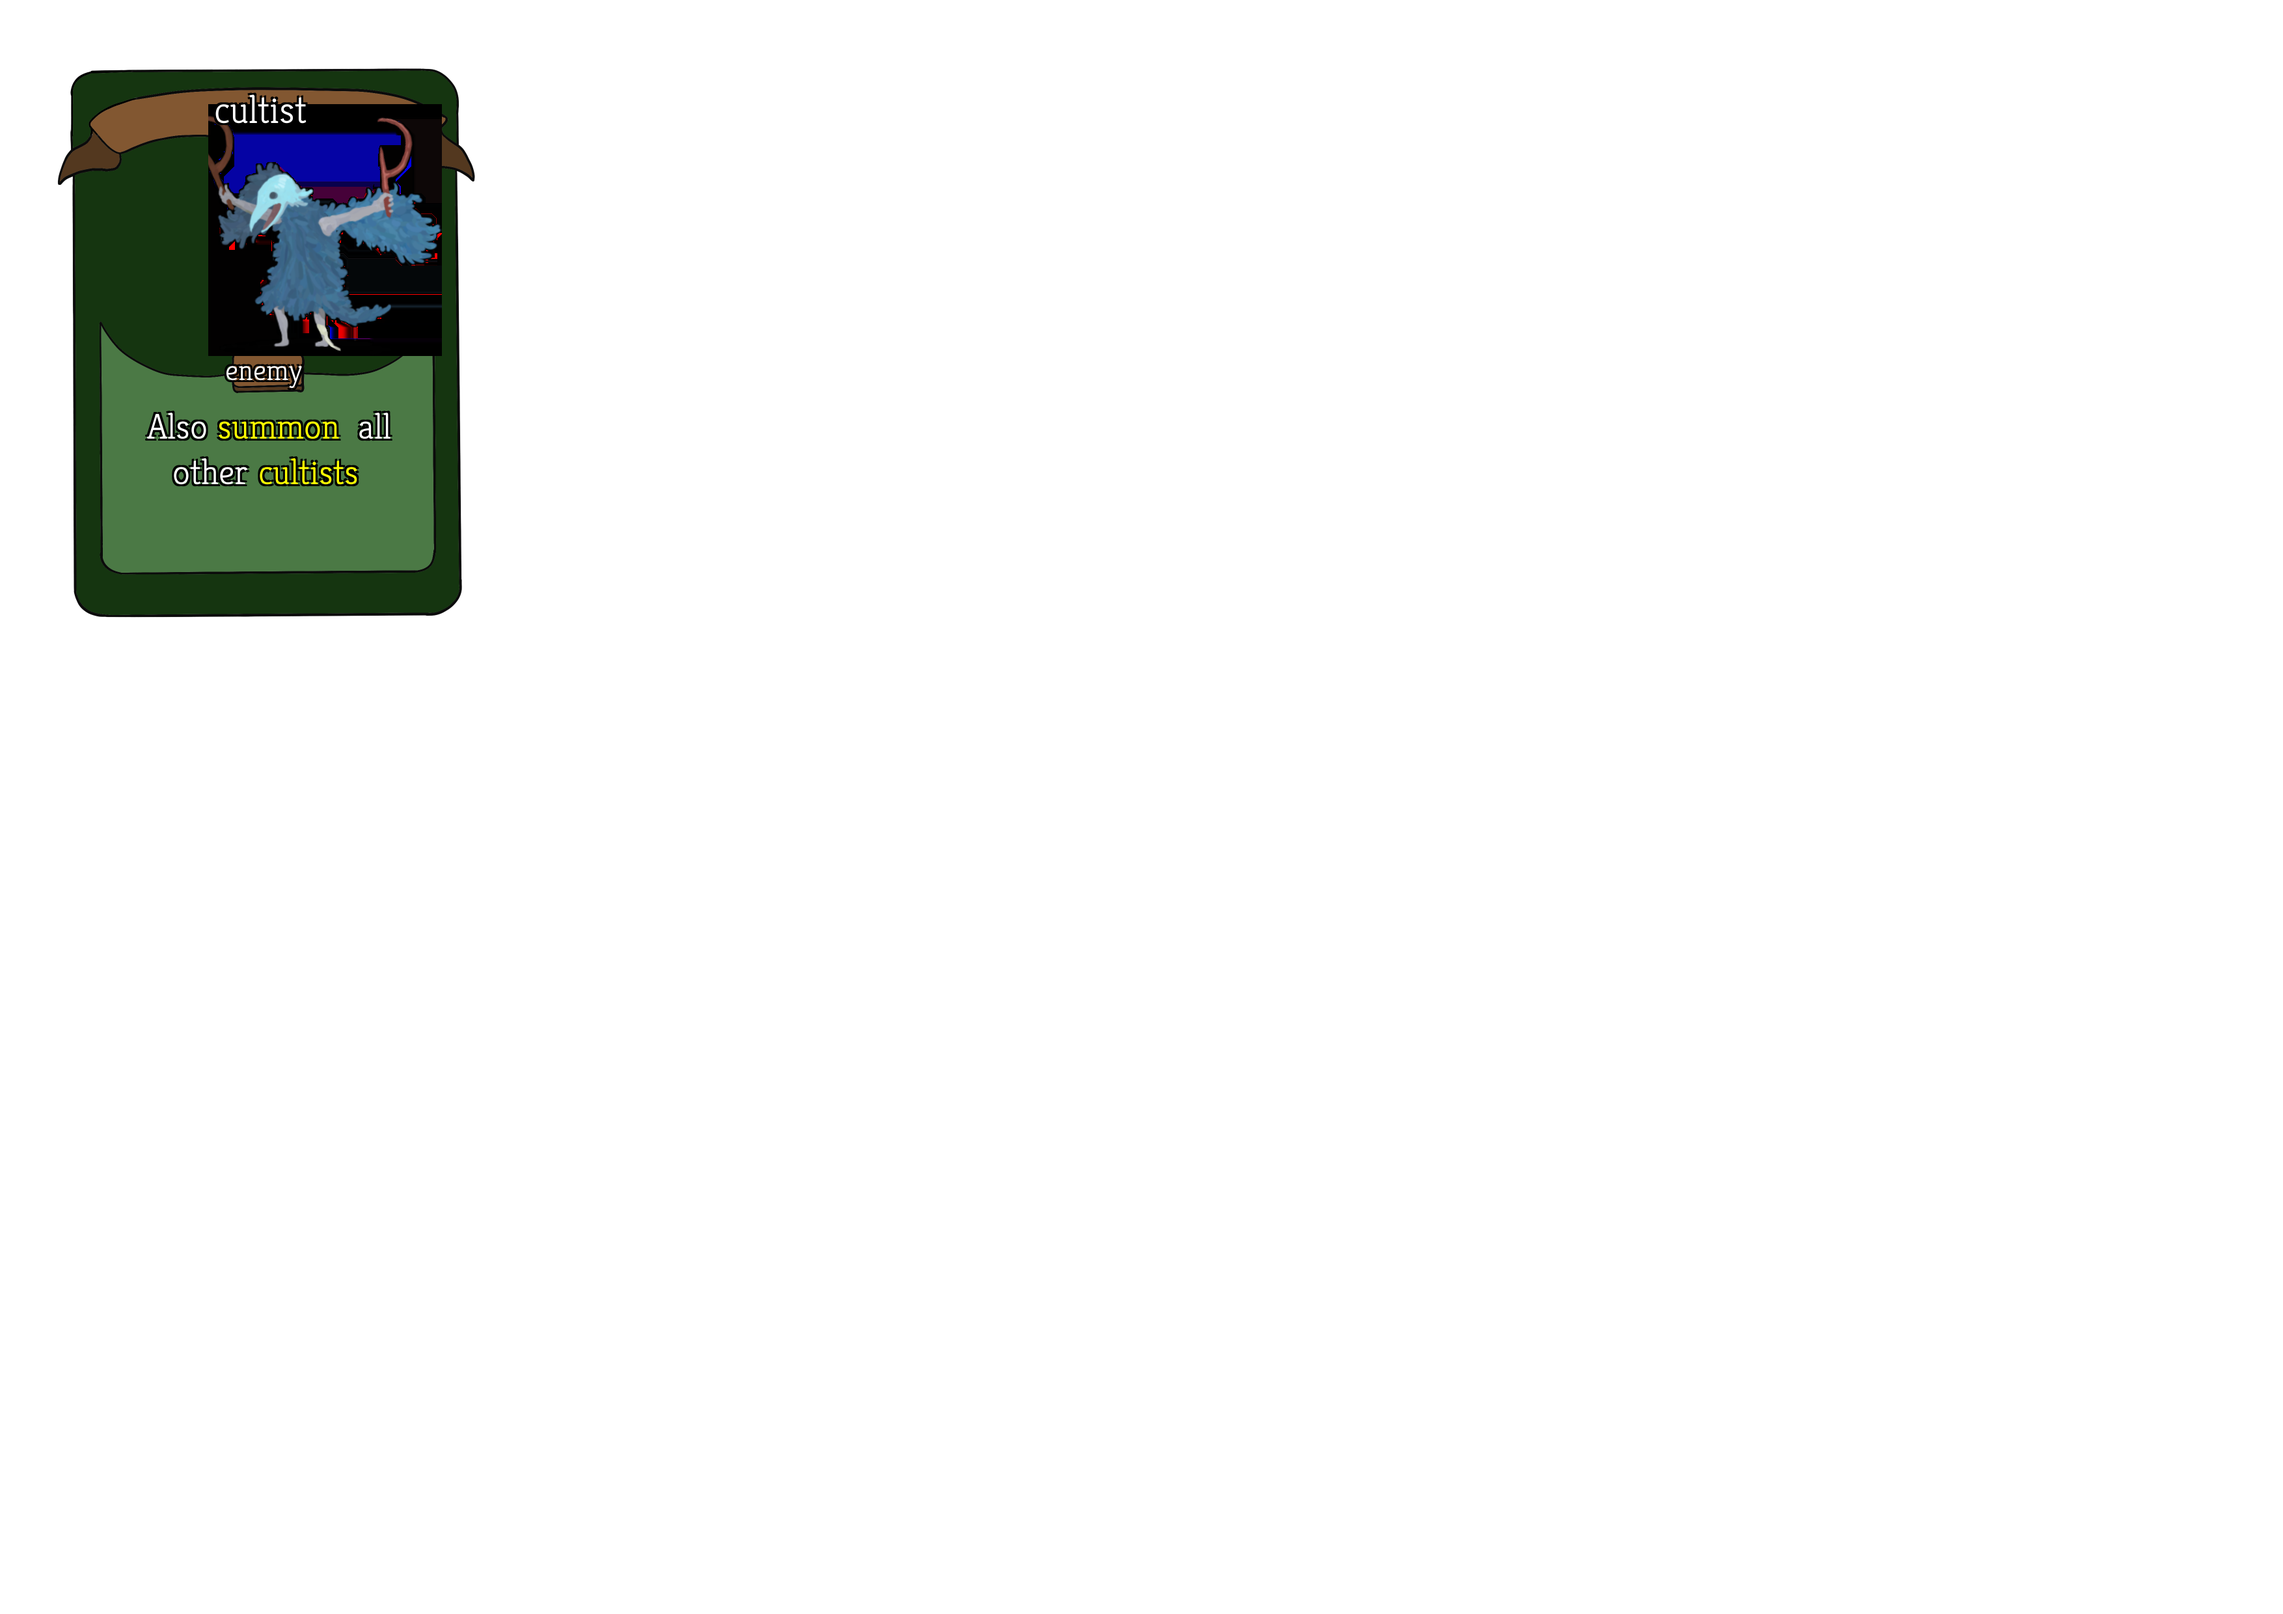
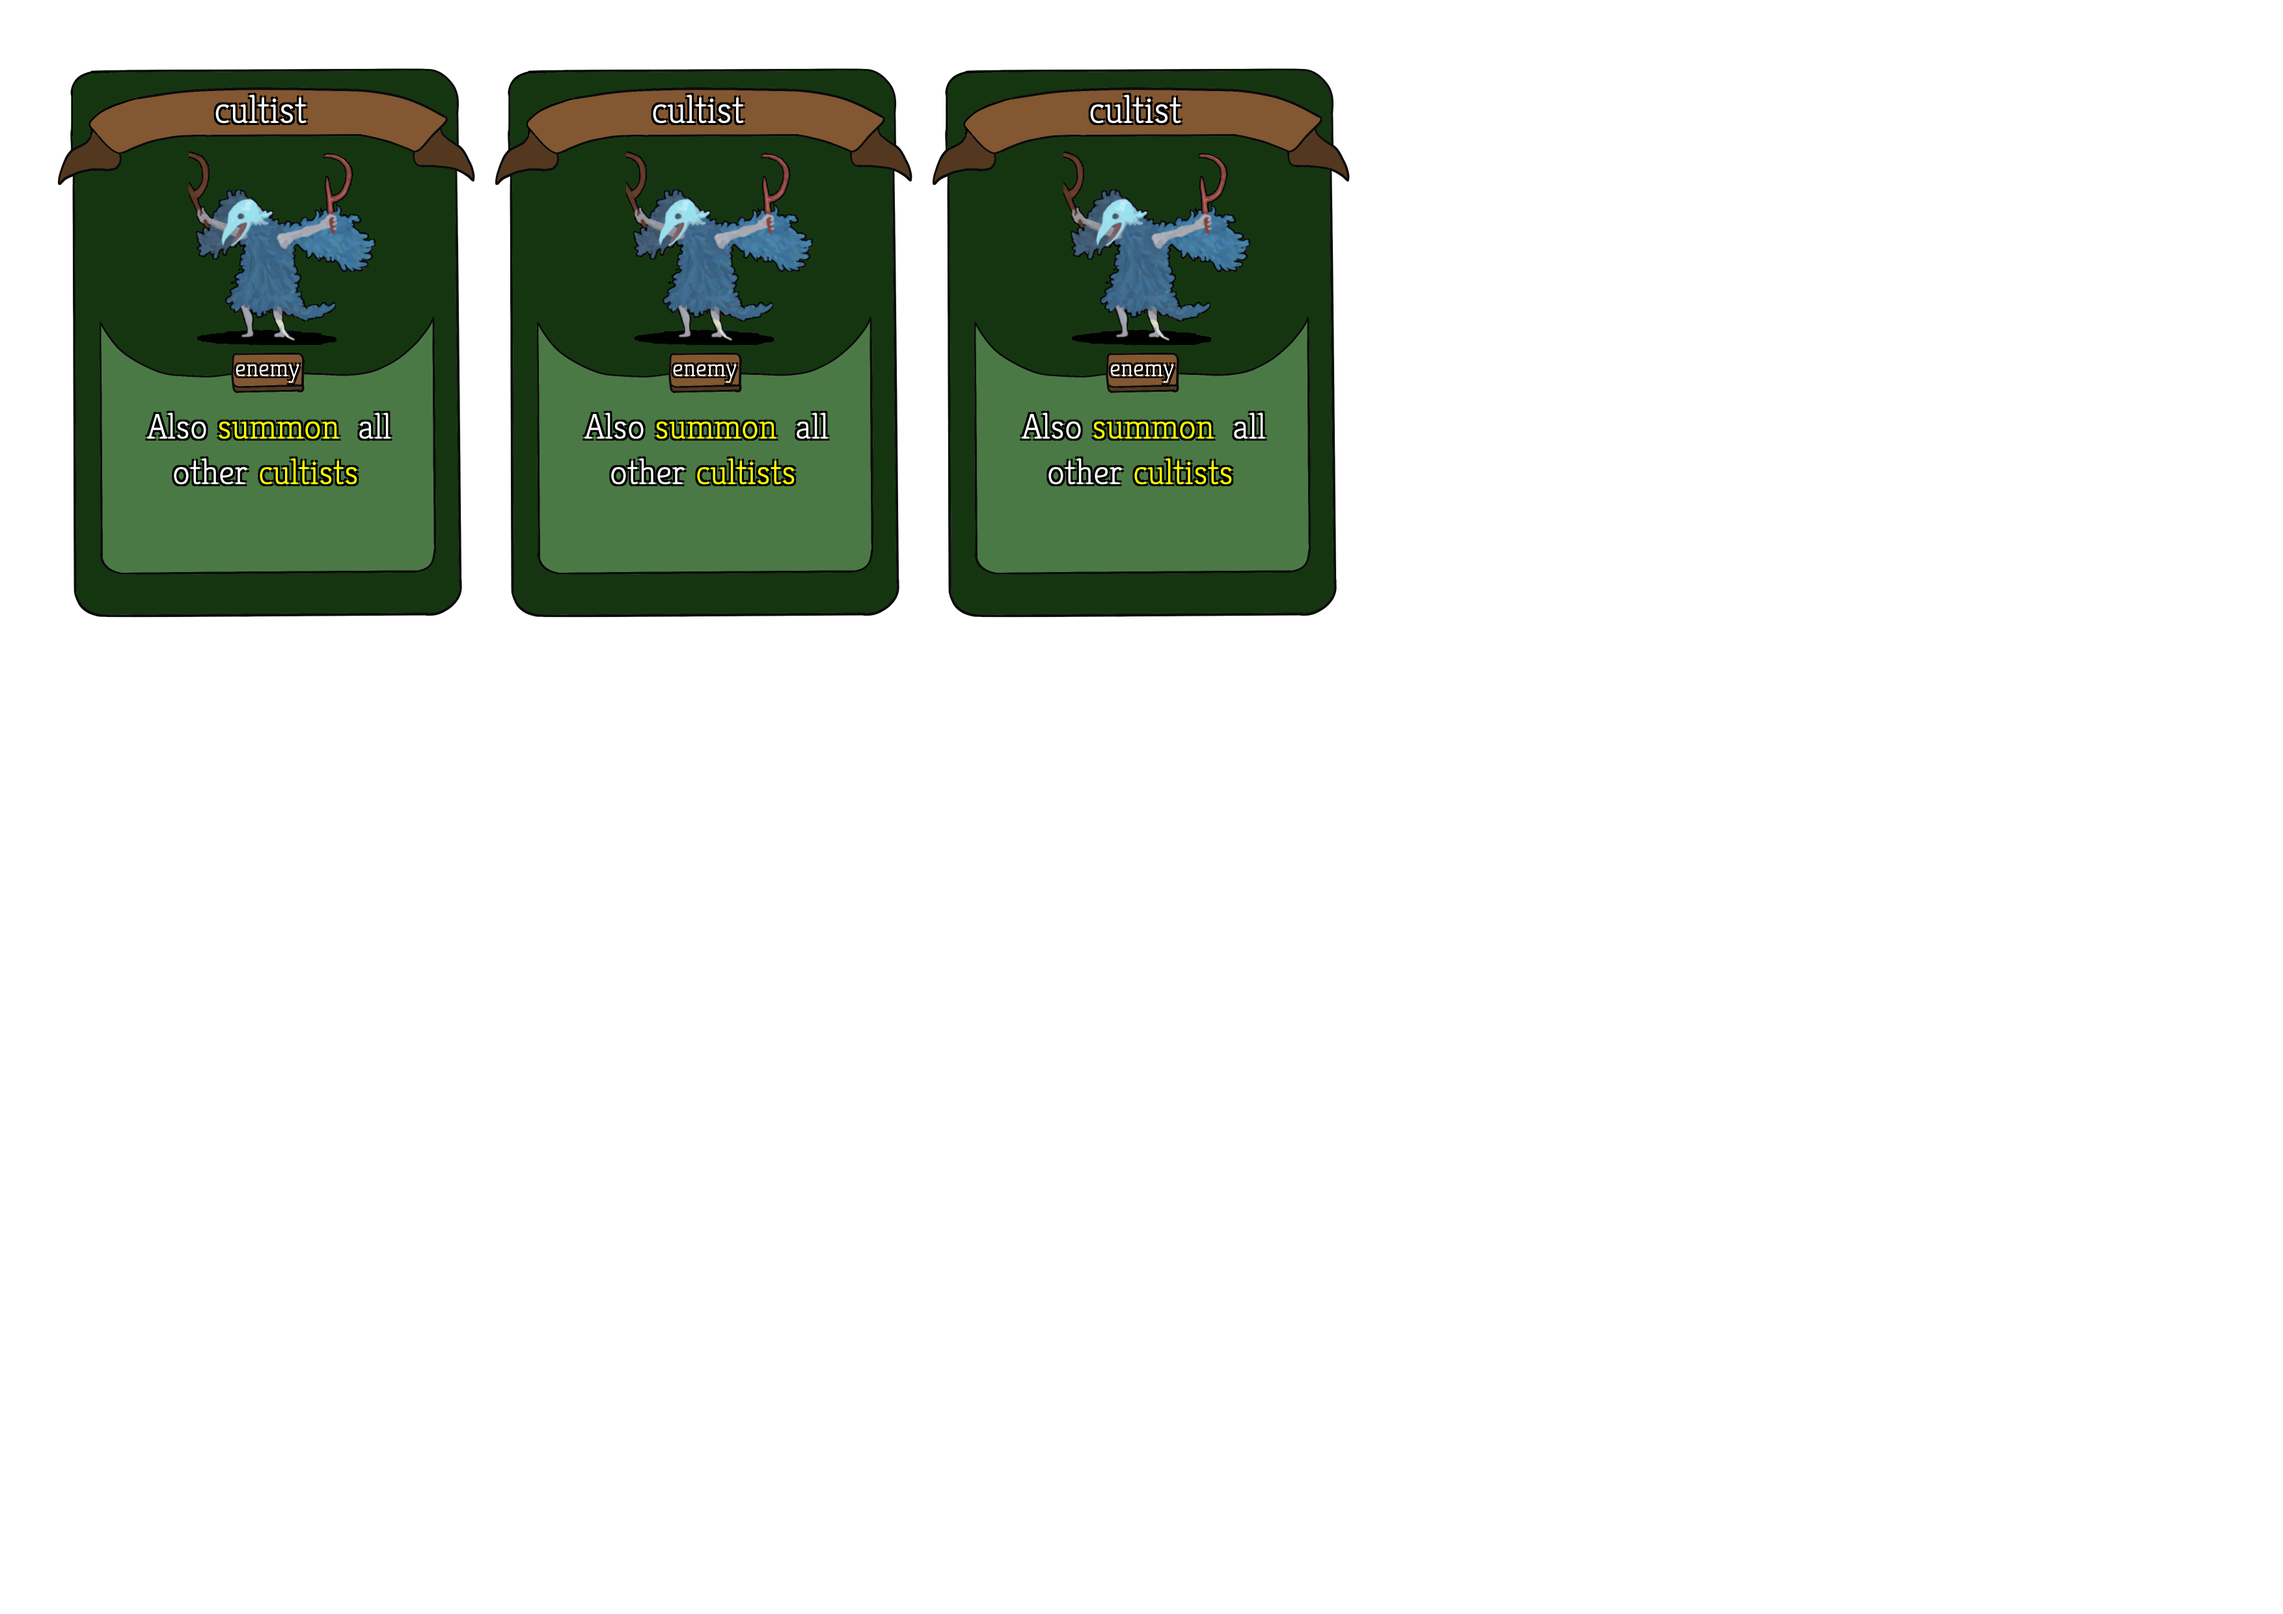
enemy cards

Changed region(s): [[0.0621, 0.031, 0.5904, 0.4036]]

diff --git a/specialCardGen.py b/specialCardGen.py
@@ -3,6 +3,8 @@ import numpy as np
 
 cards = [ # template, name, type, image, description
     ["./art/cards/misc/enemyTemplate.png","cultist","enemy","./art/enemies/cultist.png",["Also $summon$ all", "other $cultists$"]],
+    ["./art/cards/misc/enemyTemplate.png","cultist","enemy","./art/enemies/cultist.png",["Also $summon$ all", "other $cultists$"]],
+    ["./art/cards/misc/enemyTemplate.png","cultist","enemy","./art/enemies/cultist.png",["Also $summon$ all", "other $cultists$"]],
 ]
 
 from PIL import Image, ImageDraw, ImageFont
@@ -40,6 +42,13 @@ def overlay(img: cv2.typing.MatLike,subimg: cv2.typing.MatLike,x: int,y: int,cap
         tSize, _ = cv2.getTextSize(caption,cv2.FONT_HERSHEY_SIMPLEX,1,2)
         cv2.putText(img,caption,(x+s[0]//2-tSize[0]//2,y+s[1]+35),cv2.FONT_HERSHEY_SIMPLEX,1,(0,0,0),2)
 
+def overlay_alpha(img: cv2.typing.MatLike, subimg: cv2.typing.MatLike, x:int, y:int):
+    s = subimg.shape
+    for a in range(0,s[0]):
+        for b in range(0,s[1]):
+            if subimg[a,b,3]>0.001:
+                img[y+a,x+b]=subimg[a,b][0:3]
+
 def putTextPlus(img,objs,pos,size):
     font = ImageFont.truetype("./misc/kreon.ttf",size)
     hSize = 0
@@ -60,15 +69,15 @@ def placeCard(img:cv2.typing.MatLike, card: cv2.typing.MatLike,x:int,y:int,name:
     overlay(img,card,x,y)
 
     #image
-    overlay(img,image,x+220,y+100)
+    overlay_alpha(img,image,x+230,y+160)
 
     #name
     font = ImageFont.truetype("./misc/kreon.ttf",60)
     img = putTextPIL(img,name,(x+340-font.getmask(name).getbbox()[2]//2,y+70),60,(255,255,255),True,(0,0,0))
 
     #type
-    font = ImageFont.truetype("./misc/kreon.ttf",45)
-    img = putTextPIL(img,ctype,(x+345-font.getmask(ctype).getbbox()[2]//2,y+480),45,(255,255,255),True,(0,0,0))
+    font = ImageFont.truetype("./misc/kreon.ttf",38)
+    img = putTextPIL(img,ctype,(x+350-font.getmask(ctype).getbbox()[2]//2,y+480),38,(255,255,255),True,(0,0,0))
 
     #description
     font = ImageFont.truetype("./misc/kreon.ttf",55)
@@ -115,7 +124,7 @@ for c in cards:
         negBorderX:card.shape[1]-negBorderX,
     ] #crop
 
-    A4image = placeCard(A4image,card,x,y,c[1],c[2],cv2.imread(c[3]),c[4])
+    A4image = placeCard(A4image,card,x,y,c[1],c[2],cv2.resize(cv2.imread(c[3],cv2.IMREAD_UNCHANGED),None,fx=0.8,fy=0.8),c[4])
 
     blankPage = False
     x+=card.shape[1]+offset
